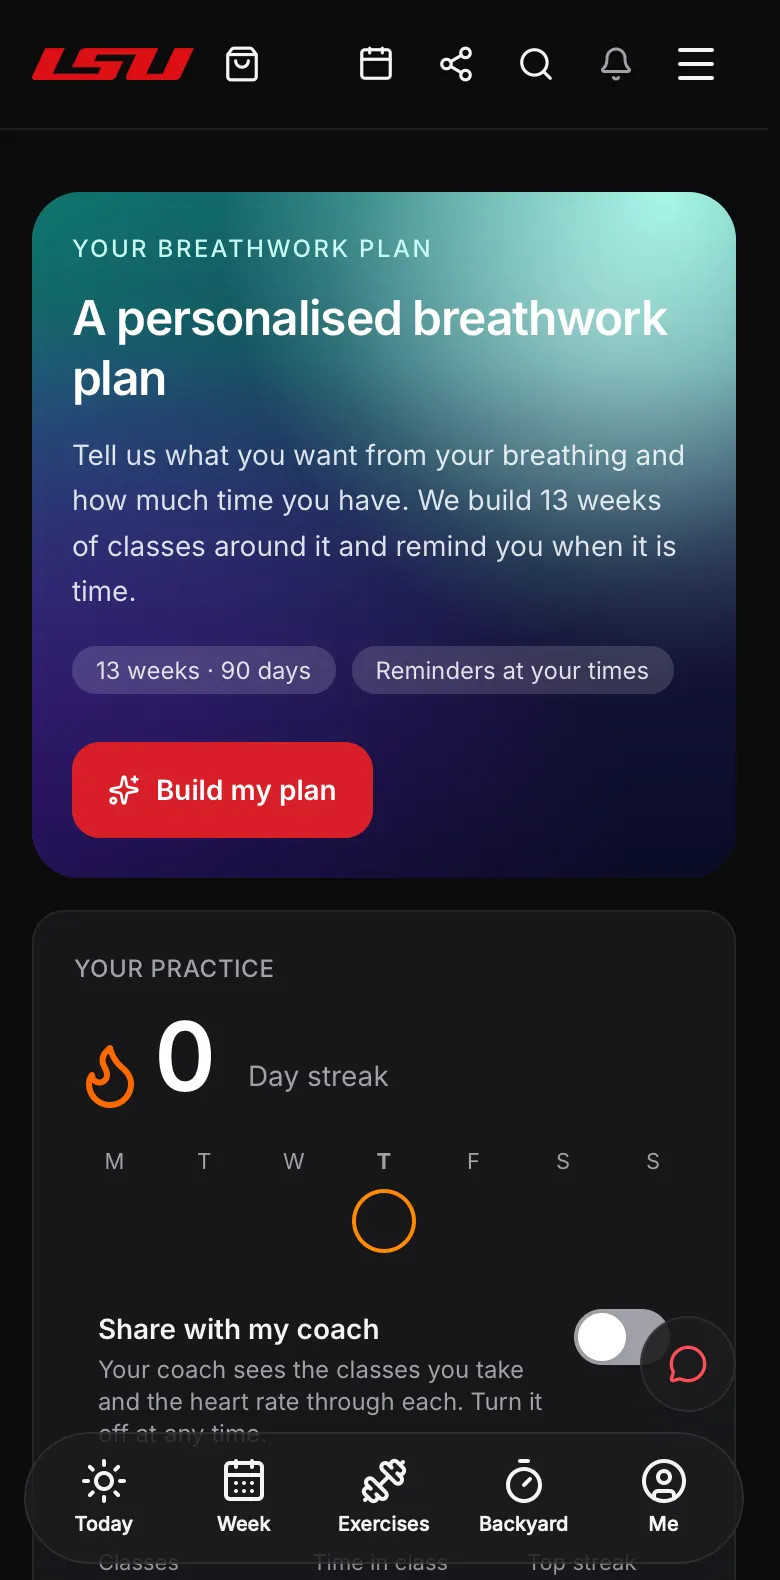
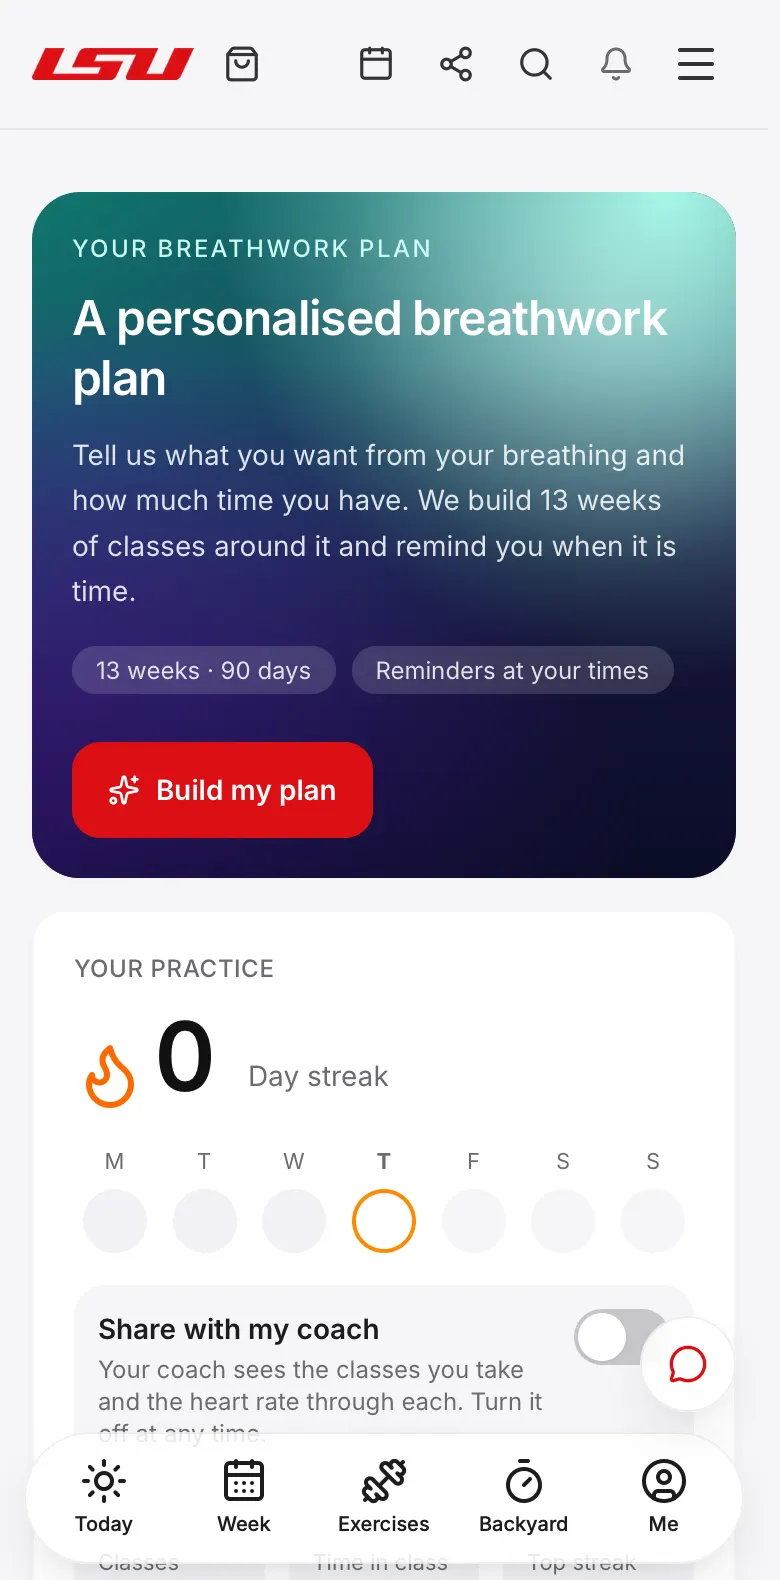
fix(onboarding): photograph the tour's screens in light as well as dark
The pictures taken earlier today were the dark screen under both names: the
app opens dark, and only the theme switch's stored choice makes it light. Both
sets are taken again, in the restored colours, with that choice stored for the
light one.

diff --git a/enterprise/hq-acceptance.md b/enterprise/hq-acceptance.md
@@ -64,11 +64,14 @@ restyled, not removed.
 
 Adopted on 2026-11-11, with HQ platform kit 1.0.4230 or later:
 
-- **Look.** `native/product.json` `identity.theme`: page `#0b0b0c`, cards
-  `#17171a` with a `#2a2a2e` hairline and 14pt corners, fills in `#d71f28`,
-  words in the accent in `#ff4d55`, muted text `#a1a1aa`, Inter for body text
-  under Anton page titles in capitals. `enterprise/presets.json` carries the
-  same palette for the coaching portal.
+- **Look.** `native/product.json` `identity.theme`: 14pt card corners with a
+  hairline, Inter for body text under Anton page titles in capitals, as the
+  draft has them. The colours are LSU's earlier ones again (2026-11-12): page
+  `#000000`, cards `#0d0d0f` with a `#333338` hairline, fills in `#dd0f15`,
+  muted text `#b6b6bd`, and no separate lighter red for words. Chris preferred
+  their deep red to the draft's `#0b0b0c`, `#d71f28` and `#ff4d55`, which
+  turned the red washes grey-pink. `enterprise/presets.json` carries the same
+  palette for the coaching portal.
 - **Photographs.** The seven pictures the draft uses are LSU's own 2026
   pictures from lastsoulultra.com, already in `public/assets/lsu/images`.
   `assets.imagery` names the file for each screen and `identity.imagery` says
@@ -106,11 +109,13 @@ Adopted on 2026-11-11, with HQ platform kit 1.0.4230 or later:
   the heart and the menu.
 - **The tour's phone pictures (2026-11-12).** `native/onboarding` was
   photographed again from kit 1.0.4264 running as this installation with HQ's
-  demo gym: the fifteen athlete and coach screens in the new look with the new
-  tab bar, each with its ring. The app is dark whatever the phone prefers, so
-  the light and dark pictures are the same screen. HQ's
-  `scripts/onboarding-screens.ts` drove Bun's WebKit view for this, through a
-  stand-in for its Chrome module, because the Mac it ran on has no Chrome.
+  demo gym: the fifteen athlete and coach screens with the new tab bar, each
+  with its ring, once in dark and once in light. The app opens dark, and a
+  member who picks light in the theme switch gets light, so the light pictures
+  are taken with that choice stored (`stx-color-mode`), not by telling the
+  browser the device is light. HQ's `scripts/onboarding-screens.ts` drove
+  Bun's WebKit view for this, through a stand-in for its Chrome module,
+  because the Mac it ran on has no Chrome.
 
 Not adopted yet, and why:
 
